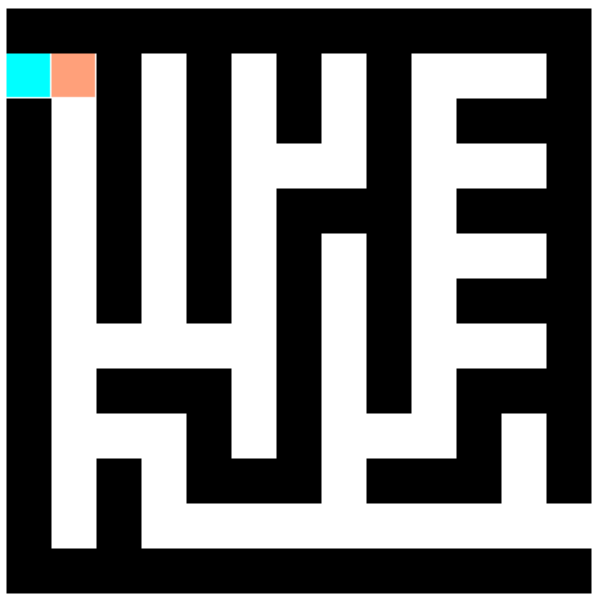
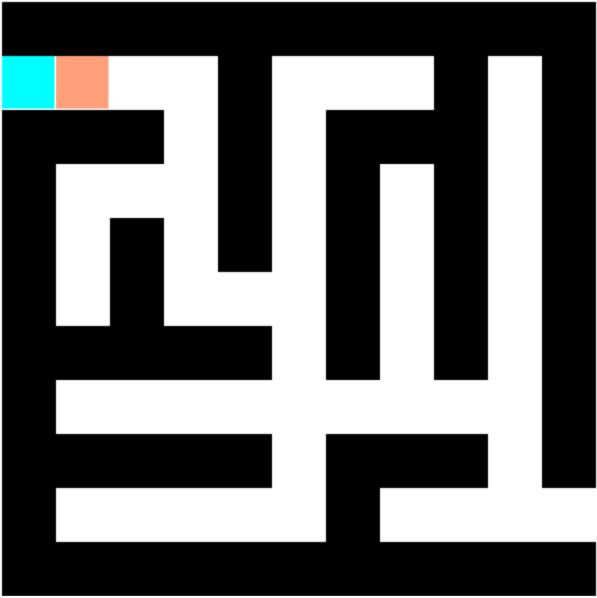
change r2 and replace menu images

diff --git a/maze.py b/maze.py
@@ -153,7 +153,7 @@ def easy():
     global r2
     global level_select
     r1 = 5
-    r2 = 10
+    r2 = 7
     level_select = "LEVEL 1 : Easy"
     refresh()
 
@@ -163,7 +163,7 @@ def medium():
     global r2
     global level_select
     r1 = 10
-    r2 = 15
+    r2 = 12
     level_select = "LEVEL 2 : Medium"
     refresh()
 
@@ -173,7 +173,7 @@ def hard():
     global r2
     global level_select
     r1 = 15
-    r2 = 20
+    r2 = 17
     level_select = "LEVEL 3 : Hard"
     refresh()
 
